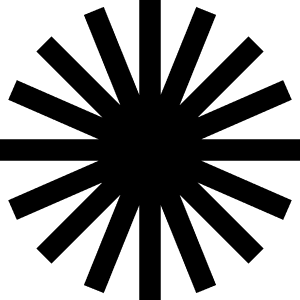
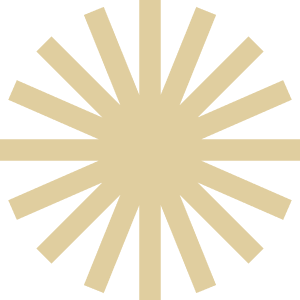
hero section v2 added

diff --git a/sections/HeroSection.jsx b/sections/HeroSection.jsx
@@ -11,7 +11,7 @@ import {
   wordAnimation
 } from '@/libs/animation/heroSection.animation.js'
 import vector1 from '@/public/assets/vector1.png'
-import { ArrowRight } from 'lucide-react'
+import { ArrowRight, Dot } from 'lucide-react'
 import Image from 'next/image.js'
 import Link from 'next/link.js'
 const HeroSection = () => {
@@ -26,37 +26,41 @@ const HeroSection = () => {
       >
         <MotionDiv
           variants={heroRevealDiv}
-          className='origin-left bg-blueColor'
+          className='origin-left bg-greenColor'
         />
         <MotionDiv
           variants={heroRevealDiv}
-          className='origin-left bg-blueColor'
+          className='origin-left bg-greenColor'
         />
         <MotionDiv
           variants={heroRevealDiv}
-          className='origin-left bg-blueColor'
+          className='origin-left bg-greenColor'
         />
         <MotionDiv
           variants={heroRevealDiv}
-          className='origin-left bg-blueColor'
+          className='origin-left bg-greenColor'
         />
       </MotionDiv>
       <MotionDiv
         variants={heroContainer}
         initial='hidden'
         animate='show'
-        className='absolute left-0 top-0 flex h-full w-full flex-col justify-between px-4  py-4 sm:px-8 lg:px-[2rem] xl:px-[4rem]'
+        className='absolute left-0 top-0 flex h-full w-full flex-col justify-between px-4  py-4 sm:px-8 lg:px-[2rem] xl:px-[4rem] text-whiteColor'
       >
         <div className='flex items-center justify-between'>
           <Link href='/' className='relative'>
-            <h4 className='heading-4 font2 font-bold'>Sheikh Arman</h4>
+            <h4 className='heading-4 text-yellowColor '>Sheikh Arman</h4>
             <MotionDiv
               variants={logoReveal}
-              className='absolute left-0 top-0 h-full w-full origin-right  bg-blueColor'
+              className='absolute left-0 top-0 h-full w-full origin-right  bg-greenColor'
             />
           </Link>
 
-          <DownloadCV/>
+          <div className='flex items-center gap-1 py-2 px-4 glassEffect'>
+            <Dot strokeWidth={8} className='stroke-green-400 animate-pulse '/>
+            <h6 className='hidden sm:block body'>Available for work</h6>
+            <h6 className='body sm:hidden'>Available</h6>
+          </div>
         </div>
 
         <div className='mx-auto flex max-w-[1000px] flex-col xl:max-w-[1200px] xl:gap-y-3 '>
@@ -64,15 +68,15 @@ const HeroSection = () => {
             <MotionDiv
               variants={revealTitleAnimation(1)}
             
-              className='display-3 sm:display-2 md:display-1 xl:display-0  m-0 whitespace-nowrap text-center md:mr-[3rem] md:text-right '
+              className='display-3 sm:display-2 md:display-1 xl:display-0 2xl:display-00  m-0 whitespace-nowrap text-center md:mr-[3rem] md:text-right '
             >
               Full Stack
             </MotionDiv>
           </span>
-          <div className='flex w-full items-center justify-center gap-x-6 lg:gap-x-12 xl:gap-x-[5rem]'>
+          <div className='flex w-full items-center justify-center gap-x-6 lg:gap-x-12 xl:gap-x-[5rem] 2xl:gap-x-[8rem]'>
             <div className='mx-auto hidden  max-w-xs text-center md:flex flex-wrap gap-x-2 justify-center xl:mx-0'>
             {paragraph.split(" ").map((word, index) => (
-            <MotionDiv key={index} className='body font2 font-medium' variants={wordAnimation(index)}
+            <MotionDiv key={index} className='body font2 font-medium uppercase' variants={wordAnimation(index)}
 >
               {word}
 
@@ -80,7 +84,7 @@ const HeroSection = () => {
             ))}
             </div>
             
-            <MotionDiv variants={revealVectorAnimation} className='relative h-[120px] w-[120px] lg:h-[140px] lg:w-[140px]'>
+            <MotionDiv variants={revealVectorAnimation} className='relative h-[120px] w-[120px] lg:h-[140px] lg:w-[140px] 2xl:h-[180px] 2xl:w-[180px]'>
               <Image
                 src={vector1}
                 fill
@@ -92,7 +96,7 @@ const HeroSection = () => {
               <MotionDiv
                 variants={revealTitleAnimation(2)}
                 
-                className='display-3 sm:display-2 md:display-1 xl:display-0 m-0 whitespace-nowrap text-right '
+                className='display-3 sm:display-2 md:display-1 xl:display-0 2xl:display-00 m-0 whitespace-nowrap text-right '
               >
                 Web
               </MotionDiv>
@@ -103,7 +107,7 @@ const HeroSection = () => {
             <MotionDiv
               variants={revealTitleAnimation(3)}
               
-              className='display-3 sm:display-2 md:display-1 xl:display-0 m-0 whitespace-nowrap text-center '
+              className='display-3 sm:display-2 md:display-1 xl:display-0 2xl:display-00 m-0 whitespace-nowrap text-center '
             >
               Developer
             </MotionDiv>
@@ -121,7 +125,8 @@ const HeroSection = () => {
         </div>
 
         <div className='flex items-center justify-between '>
-          <Link href='#contactMe' className='body font-semibold flex items-center gap-x-1 border-b border-blackColor group'>Get in touch <ArrowRight className='size-4 group-hover:w-8'/> </Link>
+          {/* <Link href='#contactMe' className='body font-semibold flex items-center gap-x-1 border-b border-blackColor group'>Get in touch <ArrowRight className='size-4 group-hover:w-8'/> </Link> */}
+          <DownloadCV/>
           <FollowMe />
         </div>
       </MotionDiv>

diff --git a/components/DownloadCV.jsx b/components/DownloadCV.jsx
@@ -13,16 +13,16 @@ const DownloadCV = () => {
     <Link href='/sk_md_golam_arman_cv.pdf' download='sk_md_golam_arman_cv.pdf'>
       <motion.button
         variants={downloadButtonAnimation}
-        className='group flex origin-bottom  items-center gap-x-1  rounded-3xl border border-blackColor p-2 sm:p-3   md:px-5'
+        className='group flex origin-bottom  items-center gap-x-1  rounded-3xl border border-yellowColor py-2 px-4 sm:p-3   md:px-5'
       >
         <motion.p
           variants={downloadButtonTextAnimation}
-          className=' label sm:body font-semibold'
+          className=' label sm:body '
         >
           Download CV
         </motion.p>
         <div className='flex h-8  items-center justify-center'>
-          <span className='inline-flex h-0 w-0 -rotate-180 transform items-center justify-center rounded-full bg-black transition-all duration-500 ease-in-out group-hover:rotate-0 group-hover:p-[0.8rem] group-hover:w-[0.9rem] group-hover:h-[0.9rem] overflow-hidden'><MoveRight className="size-4 stroke-white"/></span>
+          <span className='inline-flex h-0 w-0 -rotate-180 transform items-center justify-center rounded-full bg-yellowColor transition-all duration-500 ease-in-out group-hover:rotate-0 group-hover:p-[0.8rem] group-hover:w-[0.9rem] group-hover:h-[0.9rem] overflow-hidden'><MoveRight className="size-4 stroke-white"/></span>
         </div>
       </motion.button>
     </Link>

diff --git a/app/globals.css b/app/globals.css
@@ -33,6 +33,9 @@
   }
 }
 @layer utilities {
+  .display-00{
+    @apply  text-[14rem] leading-[12rem] tracking-[0.2rem]
+  }
   .display-0 {
     @apply text-[9rem] leading-[8.6rem] tracking-[-0.2rem];
   }
@@ -104,5 +107,57 @@
   .font2 {
     font-family: var(--font-roboto);
   }
-
+  .overlay {
+    filter: blur(1px) drop-shadow(0 0 0 #c9c7c7);
+  }
+  .overlay:after {
+    content:"";
+  background-image:url("https://upload.wikimedia.org/wikipedia/commons/7/76/1k_Dissolve_Noise_Texture.png");
+  height: 300%;
+  width: 300%;
+  position: fixed;
+  opacity:0.02;
+   animation: grains 8s steps(10) infinite;
+  }
+  @keyframes grains {
+    0%, 100% { transform:translate(0, 0) }
+  10%{
+    transform:translate(-5%,-10%)
+  }
+  20%{
+    transform:translate(-15%,-20%)
+  }
+  30%{
+    transform:translate(-5%,-10%)
+  }
+  40%{
+    transform:translate(-15%,-20%)
+  }
+  
+  50%{
+    transform:translate(-5%,-10%)
+  }
+  60%{
+    transform:translate(-15%,-20%)
+  }
+  70%{
+    transform:translate(-5%,-10%)
+  }
+  80%{
+    transform:translate(-15%,-20%)
+  }
+  90%{
+    transform:translate(-5%,-10%)
+  }
+  100%{
+    transform:translate(-15%,-20%)
+  }
+  }
+  .glassEffect {
+    background: rgba(255, 255, 255, 0.1);
+    border-radius: 12px;
+    box-shadow: 0 4px 30px rgba(0, 0, 0, 0.1);
+    backdrop-filter: blur(10px);
+    -webkit-backdrop-filter: blur(10px);
+  }
 }

diff --git a/components/FollowMe.jsx b/components/FollowMe.jsx
@@ -4,18 +4,18 @@ import Link from 'next/link'
 
 const FollowMe = () => {
   return (
-    <div className=' flex  items-center justify-center gap-x-4 '>
+    <div className=' flex  items-center justify-center gap-x-2 sm:gap-x-4 '>
       <FramerMagnetic index="1">
-        <Link href="https://www.facebook.com/arman.abir.58/"><Facebook strokeWidth='2' className=' stroke-black' /></Link>
+        <Link href="https://www.facebook.com/arman.abir.58/"><Facebook strokeWidth='2' className='size-6 stroke-yellowColor' /></Link>
       </FramerMagnetic>
 
       <FramerMagnetic index="2">
-        <Link href="https://www.instagram.com/_arman100__/"><Instagram strokeWidth='2' className='  stroke-black' /></Link>
+        <Link href="https://www.instagram.com/_arman100__/"><Instagram strokeWidth='2' className='size-6  stroke-yellowColor' /></Link>
         
       </FramerMagnetic>
 
       <FramerMagnetic index="3">
-        <Link href="https://www.linkedin.com/in/sheikharman100/"><Linkedin strokeWidth='2' className='  stroke-black' /></Link>
+        <Link href="https://www.linkedin.com/in/sheikharman100/"><Linkedin strokeWidth='2' className='size-6  stroke-yellowColor' /></Link>
         
       </FramerMagnetic>
     </div>

diff --git a/app/layout.js b/app/layout.js
@@ -1,14 +1,17 @@
 import SmoothScroll from '@/components/SmoothScroll.jsx'
-import { Cinzel, Inter } from 'next/font/google'
+import { Cinzel, Inter, Koulen, Roboto_Mono } from 'next/font/google'
 import './globals.css'
+import Overlay from '@/components/Overlay.jsx'
+import Navbar from '@/components/Navbar.jsx'
 
-const inter = Inter({
+const inter = Koulen({
   subsets: ['latin'],
+  weight:["400"]
   
 })
-const roboto=Cinzel({
+const roboto=Roboto_Mono({
   subsets:["latin"],
-  weight:["400","500","600","700","800","900"],
+  weight:["100","200","300","400","500","600","700"],
   variable:"--font-roboto"
 })
 export const metadata = {
@@ -20,7 +23,11 @@ export default function RootLayout({ children }) {
   return (
     <html lang='en'>
       <body className={`${inter.className} ${roboto.variable}`}>
-        <SmoothScroll>{children}</SmoothScroll>
+        <SmoothScroll>
+          <Overlay/>
+          {children}
+          <Navbar/>
+        </SmoothScroll>
       </body>
     </html>
   )

diff --git a/components/Navbar.jsx b/components/Navbar.jsx
@@ -1,0 +1,15 @@
+import React from 'react'
+
+const Navbar = () => {
+  return (
+    <ul className='fixed left-[50%] -translate-x-[50%] bottom-5 flex items-center glassEffect py-4 px-2 sm:px-8 gap-x-1 sm:gap-x-4 text-whiteColor '>
+      <li className='py-2 px-4 glassEffect body'>Home</li>
+      <li className='py-2 px-4  body'>About</li>
+      <li className='py-2 px-4 body'>Work</li>
+      <li className='py-2 px-4 body'>Contact</li>
+
+    </ul>
+  )
+}
+
+export default Navbar

diff --git a/tailwind.config.js b/tailwind.config.js
@@ -11,9 +11,10 @@ module.exports = {
       colors:{
         blackColor:"hsl(232.9,70.8%,9.4%)",
         purpleColor:"hsl(255.4,55.6%,75.3%)",
-        greenColor:"hsl(72.5,72.6%,71.4%)",
-        whiteColor:"hsl(264,20%,95.1%)",
-        blueColor:"hsl(210,26.8%,78%)"
+        greenColor:"hsl(137,9%,15%)",
+        whiteColor:"hsl(45,14%,89%)",
+        blueColor:"hsl(210,26.8%,78%)",
+        yellowColor:"hsl(44,51%,75%)"
       }
     },
   },

diff --git a/components/Overlay.jsx b/components/Overlay.jsx
@@ -1,0 +1,9 @@
+import React from 'react'
+
+const Overlay = () => {
+  return (
+    <div className='fixed top-0 left-0  w-full h-screen overlay pointer-events-none  z-[10000]'></div>
+  )
+}
+
+export default Overlay
